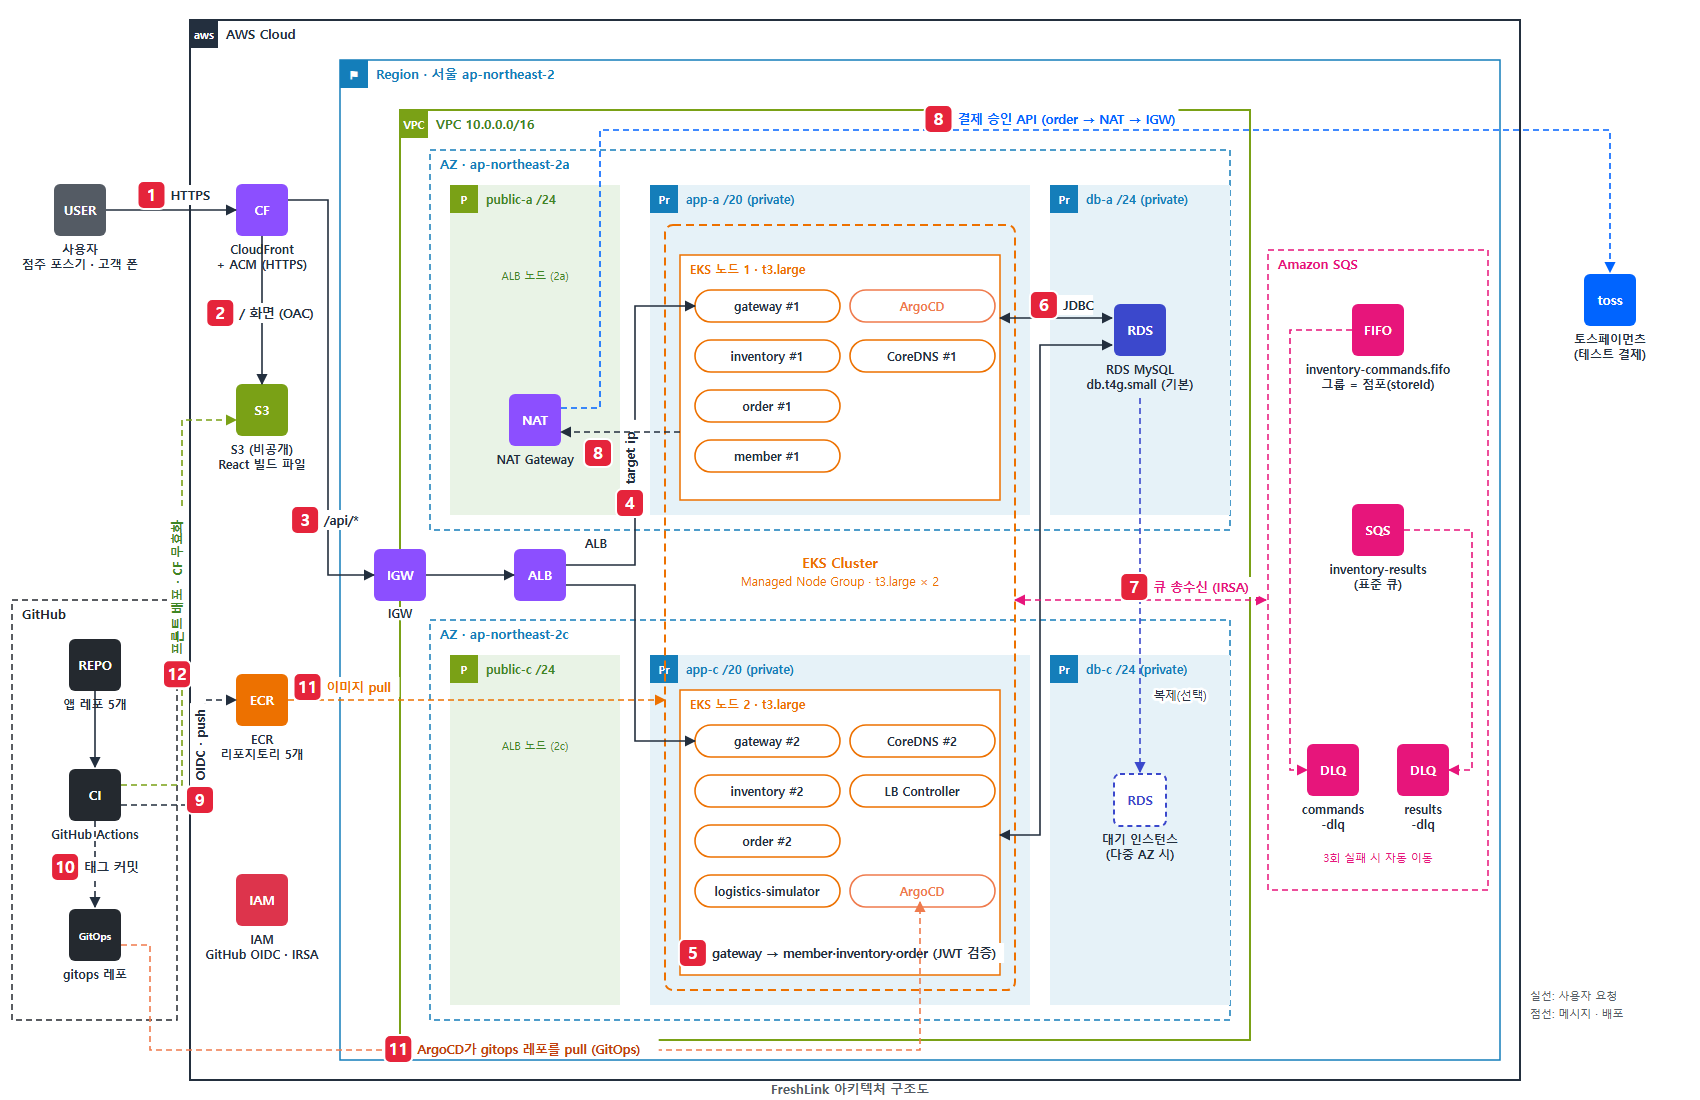
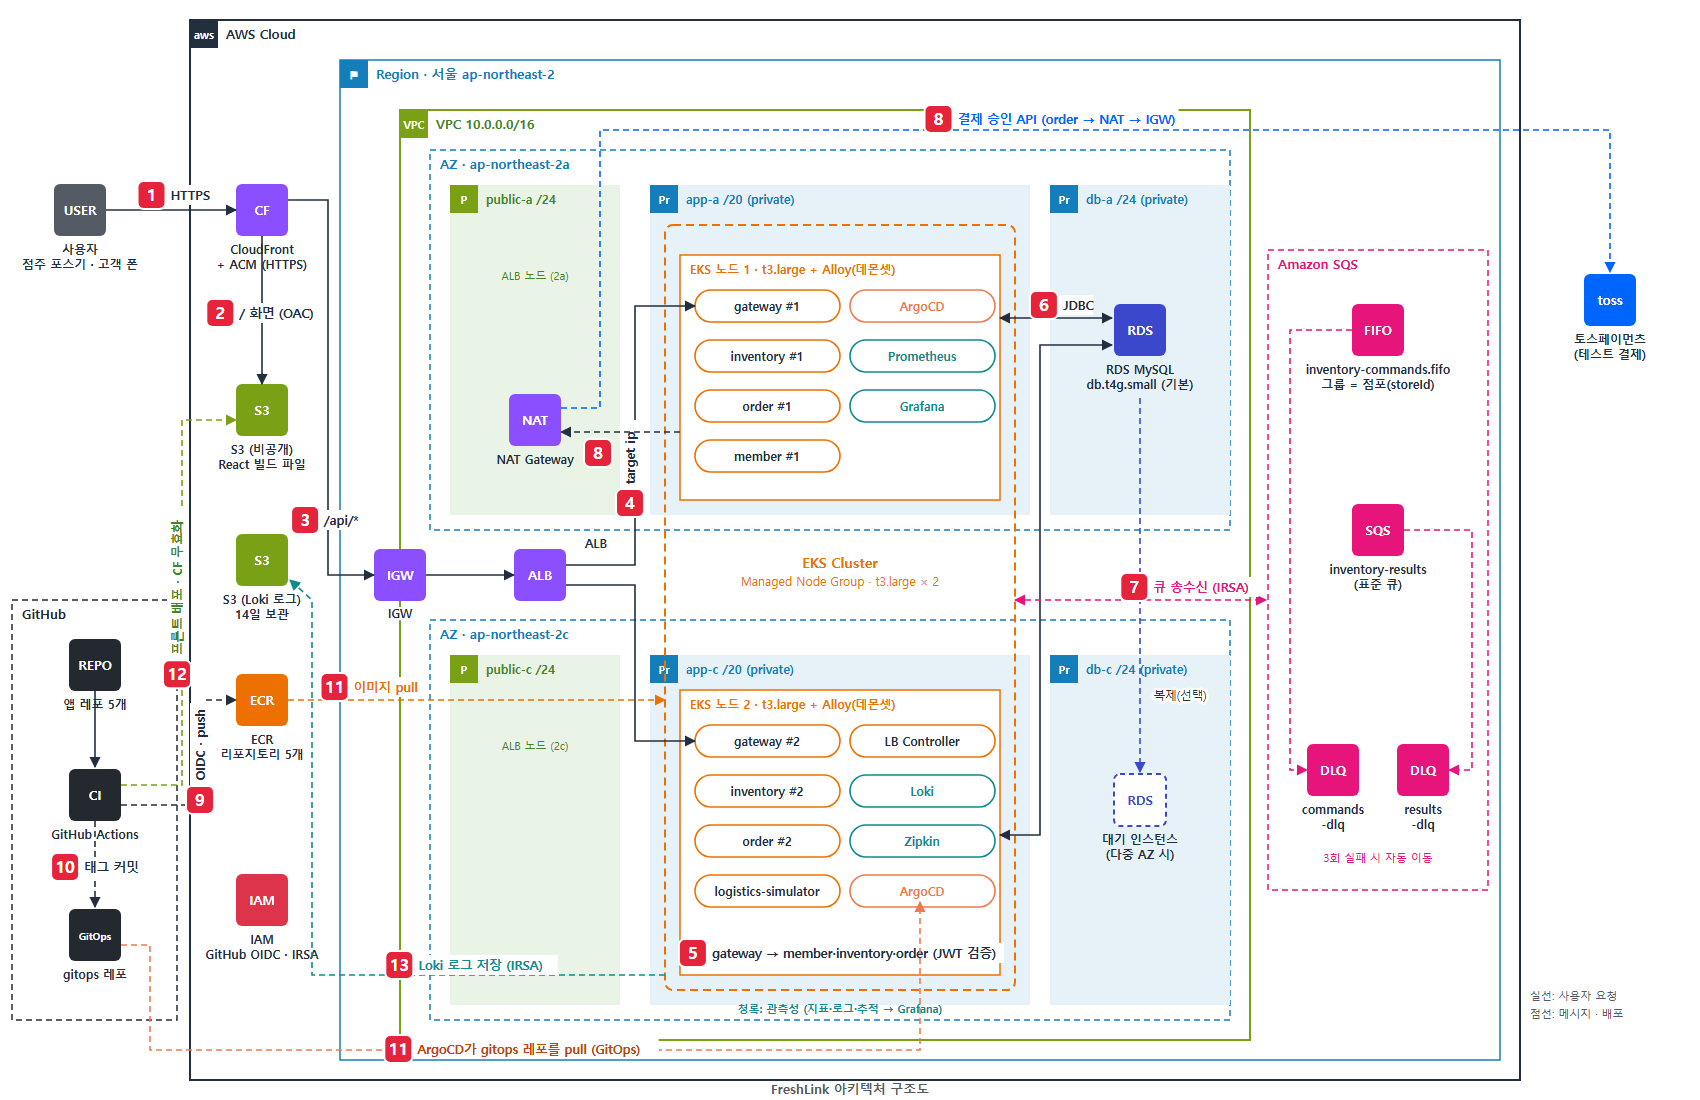
docs: 구조도 이미지, 관측성(Loki S3·IRSA 할 일), 기술스택 문서 추가

diff --git a/docs/기술스택과 선택이유.md b/docs/기술스택과 선택이유.md
@@ -1,0 +1,188 @@
+# FreshLink 기술 스택과 선택 이유
+
+작성일: 2026-10-12 · 작성: 김진아 · 팀: 김진아, 이태우, 김경우 · GitHub Organization: `sesac-freshlink`
+
+이 문서는 FreshLink MVP에서 쓰는 기술과 **왜 그것을 골랐는지**를 정리한 것이다. 기획안(`fresh-link-기획안 및 설계도.txt`)과 깃 계획(`git-계획.md`)에 흩어져 있는 결정 이유를 한곳에 모았다. 특히 **CI를 Jenkins가 아니라 GitHub Actions로 정한 이유**를 4장에, **관측성 스택(Prometheus·Grafana·Loki·Zipkin)**을 3-5에 자세히 적었다.
+
+---
+
+## 1. 한눈에 보기
+
+| 영역 | 기술 | 한 줄 이유 |
+| --- | --- | --- |
+| 프론트엔드 | React (`/owner`, `/customer` 라우팅 분리) | 점주·고객 화면을 한 앱으로 만들어 빌드·배포를 한 번에 |
+| 프론트 배포 | S3(비공개) + CloudFront(OAC) + ACM | 정적 파일은 서버 없이 S3+CloudFront가 AWS 정석. 화면과 API를 한 주소로 묶어 CORS가 필요 없다 |
+| 백엔드 | Spring Boot, Spring Data JPA, Spring Security(JWT), Spring Cloud Gateway, Spring Cloud AWS(SQS) | 팀원 모두 익숙한 스택. 게이트웨이·SQS 연동이 라이브러리로 해결된다 |
+| DB | Amazon RDS MySQL (인스턴스 1대, 서비스별 스키마 분리) | 서비스별 RDS 3대는 비용 3배. 스키마와 DB 사용자를 나눠 경계는 지킨다 |
+| 메시징 | Amazon SQS (FIFO 1개, 표준 1개, 각각 DLQ) | FIFO 메시지 그룹(=점포)으로 DB 락 없이 재고 순서 보장. 관리형이라 운영 부담 없음 |
+| 결제 | 토스페이먼츠 테스트 키 | 국내 PG, 테스트 결제 승인 API만 부르면 된다 |
+| 컨테이너 실행 | AWS EKS (t3.large × 2), AWS Load Balancer Controller(ALB Ingress) | MSA 5개 서비스를 한 클러스터에서 운영. 목표 직무에서 EKS 경험이 중요 |
+| 인프라 코드 | Terraform (persistent / cluster 두 묶음) | 주말마다 클러스터를 지웠다 다시 만들어 비용을 줄이고, IaC 재현성을 매주 검증 |
+| **CI** | **GitHub Actions** | **4장 참고** |
+| CD | ArgoCD (GitOps, `gitops` 레포) | Git이 '클러스터에 떠 있어야 할 상태'. 사람이 클러스터에 직접 배포하지 않는다 |
+| 로컬 개발 | Docker Compose (MySQL + LocalStack) | AWS 없이 각자 PC에서 SQS까지 흉내 내며 개발 |
+| 관측성 (지표) | Prometheus + Spring Boot Actuator·Micrometer | 쿠버네티스 지표 수집의 사실상 표준. Spring은 의존성 하나로 지표를 내보낸다 |
+| 관측성 (화면) | Grafana | 지표·로그·추적을 한 화면에서 보고, 로그의 traceId에서 추적으로 바로 넘어간다 |
+| 관측성 (로그) | Loki + Grafana Alloy(수집) | 로그 본문을 색인하지 않아 Elasticsearch보다 훨씬 가볍고, 저장소를 S3로 둬서 주말 클러스터 삭제 뒤에도 로그가 남는다 |
+| 관측성 (추적) | Zipkin + Micrometer Tracing | 주문 한 건이 Gateway → order → SQS → inventory를 지나가는 흐름을 본다. 파드 1개, 설정이 가장 단순하다 |
+| 비용 관리 | AWS Budgets, GitHub Actions 예약 작업으로 인프라 켜기·끄기 | 5주 예상 비용 약 400 USD → 약 150 USD (기획안 6장 D안, 관측성 포함 약 155 USD) |
+
+---
+
+## 2. 배포 흐름 요약
+
+```mermaid
+flowchart LR
+    DEV["작업 브랜치"] -- "PR" --> D["dev"]
+    D -- "PR" --> M["main"]
+    M -- "GitHub Actions" --> B["이미지 빌드·테스트"]
+    B -- "OIDC로 IAM Role" --> ECR[("ECR")]
+    B -- "이미지 태그 커밋" --> G["gitops 레포"]
+    G -- "ArgoCD가 끌어감(pull)" --> K["EKS"]
+```
+
+**역할이 깔끔하게 나뉜다.**
+
+- **CI (GitHub Actions):** 코드를 빌드·테스트하고, 이미지를 ECR에 올리고, `gitops` 레포의 이미지 태그를 바꾸는 커밋을 만든다. 여기서 끝난다.
+- **CD (ArgoCD):** 클러스터 안에서 `gitops` 레포를 지켜보다가 바뀐 상태를 클러스터에 맞춘다.
+
+즉 **CI는 클러스터에 손대지 않는다.** 이 점이 Jenkins 대신 GitHub Actions를 고른 가장 큰 이유다.
+
+---
+
+## 3. 주요 기술별 선택 이유
+
+### 3-1. SQS FIFO로 재고 처리 (DB 락 대신)
+
+재고를 바꾸는 일(입고·예약·확정·해제·폐기)은 전부 `inventory-commands` FIFO 큐를 거친다. 메시지 그룹을 점포로 두면 같은 점포의 쪽지는 한 번에 하나씩 처리되므로, 동시에 100명이 주문해도 재고가 음수가 되지 않는다. Kafka도 같은 일을 할 수 있지만 브로커를 직접 운영해야 하고(MSK는 비용이 크다), MVP 규모에는 관리형 SQS로 충분하다.
+
+### 3-2. EKS (ECS가 아니라)
+
+ECS가 더 간단하고 싸지만, 목표 직무(AWS 클라우드 인프라)의 채용 공고에서 쿠버네티스·EKS 경험을 요구하는 경우가 많다. Helm, ArgoCD, IRSA, ALB Ingress처럼 쿠버네티스 생태계를 함께 다뤄 볼 수 있다는 점도 크다.
+
+### 3-3. Terraform 두 묶음 + 주말 클러스터 삭제
+
+`persistent`(VPC, RDS, ECR, S3·CloudFront, SQS, IAM, Budgets)와 `cluster`(EKS, 노드 그룹, NAT, Helm 설치물)로 나눈다. 금요일 저녁에 `cluster`만 지우고 월요일 아침에 다시 만든다. 비용이 줄고, "코드만으로 인프라를 언제든 똑같이 다시 만들 수 있다"를 매주 검증하게 된다.
+
+### 3-4. ArgoCD (GitOps)
+
+배포 상태가 Git에 남으므로 "지금 클러스터에 무엇이 떠 있나"를 `gitops` 레포만 보면 안다. 롤백은 커밋 되돌리기다. 주말에 클러스터를 지웠다 다시 만들어도 ArgoCD만 다시 설치하면 `gitops` 레포 상태대로 앱이 자동으로 다시 올라온다.
+
+### 3-5. 관측성: Prometheus + Grafana + Loki + Zipkin
+
+**결정 (2026-10-12):** 관측성을 MVP에 넣는다(기획안 I-03, 담당 김진아). 지표는 Prometheus, 로그는 Loki, 추적은 Zipkin, 보는 화면은 Grafana 하나로 통일한다.
+
+MSA는 요청 하나가 서비스 여러 개와 큐를 거친다. "결제는 됐는데 재고가 안 줄었다" 같은 문제가 생기면 서비스 3개의 로그를 따로 뒤져야 한다. 관측성 스택이 있으면 traceId 하나로 그 주문이 어디서 멈췄는지 바로 찾는다. 목표 직무(AWS 클라우드 인프라)에서 "운영"을 보여 줄 수 있는 가장 직접적인 근거이기도 하다.
+
+#### 도구별 선택 이유
+
+| 도구 | 하는 일 | 고른 이유 | 대안과 버린 이유 |
+| --- | --- | --- | --- |
+| **Prometheus** | 지표(요청 수, 응답 시간, 에러율, JVM 메모리, 노드·파드 자원) 수집·저장 | 쿠버네티스 지표 수집의 사실상 표준. `kube-prometheus-stack` 차트 하나로 노드·파드 지표와 기본 대시보드까지 따라온다. Spring은 Micrometer가 Prometheus 형식을 그대로 내보낸다 | CloudWatch Container Insights: 설치는 쉽지만 지표 수·로그 양만큼 요금이 붙고, 대시보드와 쿼리가 AWS 콘솔에 묶인다. Amazon Managed Prometheus: 관리형이지만 수집 요금이 붙고 MVP 규모에는 과하다 |
+| **Grafana** | 지표·로그·추적을 한 화면에서 보기 | 데이터 소스 셋(Prometheus, Loki, Zipkin)을 모두 붙일 수 있고, 로그 줄의 traceId를 누르면 Zipkin 추적 화면으로 넘어간다(derived fields). 대시보드를 JSON으로 `gitops` 레포에 두면 클러스터를 지웠다 다시 만들어도 그대로 돌아온다 | Kibana: Elasticsearch가 있어야 쓴다 |
+| **Loki** | 로그 저장·검색 | 로그 본문은 색인하지 않고 라벨(namespace, app, level)만 색인해서 메모리·디스크를 적게 쓴다. 파드 1개(단일 바이너리 모드), 메모리 512 MiB로 충분하다. 저장소를 S3로 두면 주말 클러스터 삭제와 상관없이 로그가 남는다 | ELK(Elasticsearch): 전문 검색은 강하지만 Elasticsearch 하나에 메모리 2~4 GiB가 필요해 노드 2대에 들어가지 않는다. CloudWatch Logs: 수집량 요금이 붙고 Grafana와 따로 논다 |
+| **Grafana Alloy** | 각 노드의 파드 로그를 읽어 Loki로 보내기 | Grafana가 Promtail 다음으로 내놓은 수집기. **Promtail은 지원이 끝나 가는 중이라(Grafana가 Alloy로 이전을 안내) 새로 시작하는 프로젝트는 Alloy로 간다.** 데몬셋으로 노드마다 1개 | Promtail: 위 이유. Fluent Bit: 쓸 만하지만 Loki와 같은 회사 도구인 Alloy가 설정 예제가 많다 |
+| **Zipkin** | 분산 추적(요청 하나가 서비스 사이를 지나간 경로와 각 구간 시간) | 파드 1개, 메모리 저장으로 설정할 것이 거의 없다. Micrometer Tracing의 Brave 브리지가 Zipkin 형식으로 바로 보내고, Grafana에 Zipkin 데이터 소스가 기본 내장이다 | Grafana Tempo: S3에 저장해 오래 남길 수 있고 Grafana와 더 잘 붙지만 구성 요소가 많다. Jaeger: 기능은 비슷하지만 Spring 쪽 기본 연동은 Zipkin(Brave)이 더 단순하다. 추적을 오래 보관해야 하면 Tempo로 바꾸는 것을 검토한다 |
+
+#### 서비스가 붙는 방법 (Spring Boot)
+
+공통 설정은 김진아가 `common` 레포에 모아서, 각 서비스는 의존성 하나만 추가하면 되게 한다.
+
+| 무엇 | 의존성·설정 | 결과 |
+| --- | --- | --- |
+| 지표 | `spring-boot-starter-actuator`, `micrometer-registry-prometheus`. `management.endpoints.web.exposure.include=health,prometheus`. 관리 포트는 `management.server.port=8081`로 따로 둔다 | `/actuator/prometheus`에 지표가 나온다. 공통 Helm 차트(`spring-service`)에 ServiceMonitor를 넣어 5개 서비스가 자동으로 수집된다. `/actuator/health`는 readiness·liveness probe로도 쓴다 |
+| 추적 | `micrometer-tracing-bridge-brave`, `zipkin-reporter-brave`. `management.tracing.sampling.probability=1.0`(MVP는 트래픽이 적어 전부 기록), Zipkin 주소 `http://zipkin.observability:9411/api/v2/spans` (Spring Boot 3.x 기준 속성 이름은 `management.zipkin.tracing.endpoint`) | HTTP 요청, RestClient/WebClient 호출(토스 결제 API 포함), JPA 쿼리 구간이 자동으로 기록된다. Gateway(Spring Cloud Gateway)도 같은 방식으로 붙는다 |
+| 추적이 SQS를 건너가게 | 메시지 속성에 `traceparent`를 실어 보내고 받는 쪽에서 이어받는다. **Outbox 발행기는 별도 스레드에서 보내므로, outbox 표에 `trace_parent` 칸을 두고 저장 시점의 추적 정보를 넣어 둔다** | 주문 → 예약 쪽지 → inventory 처리까지 하나의 추적으로 이어진다. 이 부분이 FIFO·Outbox 구조를 면접에서 설명할 때 가장 좋은 그림이 된다 |
+| 로그 | 콘솔(stdout)에 JSON 한 줄로 찍는다. Spring Boot 3.4 이상은 `logging.structured.format.console=ecs`로 바로 된다. Micrometer Tracing이 `traceId`, `spanId`를 로그에 자동으로 넣는다 | Alloy가 노드의 파드 로그 파일을 읽어 Loki로 보낸다. 서비스 코드는 Loki를 전혀 모른다. traceId는 라벨로 만들지 않는다(라벨 종류가 폭발하면 Loki가 느려진다) |
+
+```mermaid
+flowchart LR
+    subgraph EKS["EKS (namespace: observability)"]
+        APP["Spring 파드 5종<br/>Actuator · Micrometer"]
+        P["Prometheus"]
+        A["Alloy (노드마다)"]
+        L["Loki"]
+        Z["Zipkin"]
+        G["Grafana"]
+    end
+    S3[("S3 로그 버킷")]
+    APP -- "/actuator/prometheus 수집" --> P
+    APP -- "stdout JSON 로그" --> A --> L --> S3
+    APP -- "추적 전송" --> Z
+    P --> G
+    L --> G
+    Z --> G
+```
+
+#### 설치와 운영
+
+- **설치는 ArgoCD가 한다.** `gitops/platform/observability`에 kube-prometheus-stack, loki, alloy, zipkin Application을 둔다. Terraform은 ArgoCD와 LB Controller까지만 올린다. 보관 기간·리소스·대시보드를 바꿀 때 `gitops` PR 하나로 끝나고, 월요일에 클러스터를 다시 만들면 앱과 함께 자동으로 다시 올라온다.
+- **보관:** Loki 로그는 S3에 14일(유지 묶음이라 주말에도 남는다). Prometheus 지표는 EBS gp3 10 GiB에 3일(주말 삭제 때 사라진다). Zipkin 추적은 메모리에만 있어 파드가 재시작하면 사라진다. MVP에서는 "오늘 무슨 일이 있었나"를 보는 용도라 충분하다.
+- **접속:** Grafana는 외부에 열지 않고 `kubectl port-forward`로 연다. 시연 때 외부에서 보여야 하면 그때 ALB 경로와 로그인을 붙인다.
+- **알림:** Alertmanager는 꺼서 자원을 아낀다. 필요해지면 Grafana 알림으로 팀원 메일에 보낸다.
+- (선택) Grafana에 CloudWatch 데이터 소스를 붙이면 SQS 큐 깊이와 DLQ 메시지 수도 같은 화면에서 본다. IRSA로 읽기 권한만 준다.
+
+#### 노드 용량에 주는 영향
+
+관측성 스택은 파드 10개, **CPU 요청 약 0.85 vCPU, 메모리 요청 약 2.9 GiB**를 더한다(EBS CSI 드라이버 포함 시 시스템 쪽 +0.05 vCPU, +0.2 GiB). 노드 2대의 할당 가능량은 약 3.86 vCPU, 14.2 GiB다.
+
+- 메모리는 합계 약 9 GiB(64%)로 여유가 있다.
+- **먼저 차는 것은 CPU 요청이다.** 앱 CPU 요청을 처음 값 250m로 두면 합계가 약 3.8 vCPU로 거의 꽉 차서 롤링 배포 때 새 파드가 뜨지 못한다. **앱 파드 CPU 요청을 150m로 낮춰 약 3.05 vCPU(79%)**로 맞춘다. CPU 상한은 두지 않으므로 Spring 기동 때는 남는 CPU를 빌려 쓴다.
+- **결론: t3.large × 2를 그대로 쓰고 3번째 노드는 늘리지 않는다.** 노드 그룹 최대값 3은 그대로 두고, 부하 테스트·장애 훈련 때나 150m로 응답이 느릴 때만 3대로 올린다(개발 시간에만 켜면 5주에 약 +20 USD).
+- 관측성 자체에 드는 추가 비용은 볼륨·S3·이미지 다운로드(NAT)를 합쳐 5주에 약 5 USD다. D안 기준 약 150 → 약 155 USD.
+- 자세한 파드별 요청량은 기획안 3-1, 3-2를 본다.
+
+---
+
+## 4. CI: Jenkins 대신 GitHub Actions를 고른 이유
+
+**결정 (2026-10-12):** CI는 GitHub Actions로 한다. 배포는 그대로 ArgoCD GitOps다.
+
+### 4-1. 이유
+
+**① GitOps 구조에서는 CI가 클러스터에 접근할 필요가 없다.**
+Jenkins의 대표적인 장점은 VPC 안(또는 클러스터 안)에 두면 프라이빗 리소스(EKS API, RDS 등)에 바로 접근할 수 있다는 것이다. 하지만 우리 CI가 하는 일은 이미지 빌드 → ECR 푸시 → `gitops` 레포에 태그 커밋뿐이다. 클러스터에 배포하는 것은 클러스터 안의 ArgoCD가 끌어가는(pull) 방식이라, CI는 VPC 안에 있을 이유가 없다. Jenkins의 'VPC 내부 접근' 장점이 우리 구조에서는 사라진다.
+
+**② 운영하고 돈 낼 CI 서버가 없다. 그리고 주말 삭제와 충돌하지 않는다.**
+Jenkins는 서버(EC2 또는 클러스터 안 파드)를 직접 띄우고 플러그인·보안 업데이트·디스크·백업을 관리해야 한다. EC2로 띄우면 24시간 요금이 나가거나, 그것까지 켜고 끄는 일정을 따로 짜야 한다. 클러스터 안에 띄우면 **금요일마다 클러스터를 지우는 D안 때문에 Jenkins도 같이 사라진다**(작업 이력, 설정, 자격 증명까지). GitHub Actions는 GitHub이 실행기를 제공하므로 이런 문제가 없다.
+
+**③ 이미 기획에서 GitHub Actions를 쓰고 있다.**
+- 인프라 켜기·끄기 예약 작업과 수동 버튼(workflow_dispatch) — 기획안 6-5
+- 프론트엔드 빌드 → S3 업로드 → CloudFront 무효화 — 기획안 3-5
+
+여기에 Jenkins를 더하면 CI 도구가 둘이 된다. 하나로 통일하면 시크릿, 권한, 로그를 보는 곳도 하나다. 특히 인프라 켜기·끄기는 클러스터가 없을 때도 돌아야 하므로, 어차피 클러스터 바깥의 실행기(GitHub Actions)가 필요하다.
+
+**④ 레포 11개를 재사용 워크플로와 OIDC로 깔끔하게 묶을 수 있다.**
+- 레포를 나눠 두었기 때문에(`gateway`, `member-service`, `inventory-service`, `order-service`, `logistics-simulator`, `frontend` 등) 빌드 파일이 여기저기 복사되기 쉽다. `.github` 레포에 재사용 워크플로(`spring-build.yml`, `frontend-deploy.yml`)를 두고 각 레포는 몇 줄로 불러 쓴다. 하나를 고치면 전체에 반영된다.
+- AWS 인증은 **GitHub OIDC로 IAM Role을 맡는다.** AWS 액세스 키를 어디에도 저장하지 않는다. Role의 신뢰 정책에서 `sesac-freshlink` Organization의 특정 레포·브랜치만 허용할 수 있다. Jenkins에서는 보통 액세스 키를 자격 증명으로 저장하거나, Jenkins 서버를 EC2 인스턴스 프로파일로 묶어야 한다.
+- PR 화면에 빌드 결과가 바로 붙어 리뷰가 편하다. 별도 Jenkins 웹훅·계정 연동이 필요 없다.
+
+**⑤ 목표 직무에서 더 점수가 되는 곳에 시간을 쓴다.**
+목표 직무(예: 현대오토에버 등의 AWS 클라우드 인프라)는 CI 도구 이름보다 **AWS 설계, Terraform, 운영, 비용 최적화** 경험을 본다. Jenkins 서버를 세우고 관리하는 데 들어갈 시간을 EKS·Terraform·모니터링·비용 절감에 쓰는 편이 포트폴리오에 더 남는다.
+
+### 4-2. Jenkins를 골랐다면 얻었을 것 (포기한 것)
+
+정직하게 적어 둔다. 면접에서 "왜 Jenkins는 안 썼나요?"라는 질문에 장단점을 둘 다 말할 수 있어야 한다.
+
+| Jenkins의 장점 | 우리 상황에서 |
+| --- | --- |
+| VPC 안에서 프라이빗 리소스에 바로 접근 | GitOps라 CI가 클러스터·RDS에 접근할 일이 없다 |
+| CI 서버를 직접 운영해 본 경험 (설치, 플러그인, 에이전트, 백업) | 운영 경험은 EKS·Terraform·ArgoCD 쪽에서 충분히 쌓는다 |
+| JCasC(Configuration as Code)로 Jenkins 설정까지 코드화 | GitHub Actions는 워크플로 자체가 YAML 코드라 같은 효과 |
+| 국내 기업(특히 온프레미스·금융권)에서 여전히 많이 쓴다 | 면접 대비로 개념(파이프라인, 에이전트, JCasC)은 따로 공부해 둔다 |
+| 빌드 시간 제한·과금 없이 마음껏 돌릴 수 있다 | 5주 MVP 빌드 횟수면 GitHub Actions 무료 제공량 안에서 해결된다 (레포를 private으로 두면 월 사용 시간 제한이 있으니 확인) |
+
+### 4-3. 다시 검토할 때
+
+아래 상황이 생기면 결정을 다시 본다.
+
+- **CI가 VPC 안의 프라이빗 리소스에 접근해야 할 때.** 예: 실제 RDS에 붙는 통합 테스트, 프라이빗 EKS API에 직접 명령, 사내망 전용 저장소.
+  - 이때도 Jenkins로 바꾸기보다 **GitHub Actions self-hosted runner를 EKS 안에 띄우는 것**(Actions Runner Controller)을 먼저 검토한다. 워크플로는 그대로 두고 실행 위치만 VPC 안으로 옮길 수 있다. 단, 주말 클러스터 삭제 때 러너도 같이 사라지므로, 그 작업은 평일에만 돌게 한다.
+- **빌드가 무료 제공량을 넘거나 GitHub 호스팅 실행기로는 너무 느릴 때.** 같은 self-hosted runner로 해결할 수 있다.
+
+---
+
+## 5. 관련 문서
+
+- `fresh-link-기획안 및 설계도.txt` — 3-4 기술 스택, 3-5 프론트 배포, 6-4 I-03 관측성, (인프라 산정) 3장 노드 산정, 6장 비용과 켜고 끄는 일정, 7장 Outbox 추적·Loki 설정, 8장 Helm 설치 목록
+- `git-계획.md` — 레포 구성, 7장 CI/CD 흐름, 8장 시크릿과 OIDC

diff --git a/docs/architecture/README.md b/docs/architecture/README.md
@@ -40,7 +40,15 @@ order-service가 토스페이먼츠 결제 승인 API를 호출한다. 프라이
 | ⑪ | ArgoCD ← `gitops`, 노드 ← ECR | 클러스터 안의 ArgoCD가 `gitops`를 끌어와(pull) 상태를 맞추고, 노드가 ECR에서 이미지를 받는다 |
 | ⑫ | GitHub Actions → S3 · CloudFront | 프론트는 `npm run build` → S3 업로드 → CloudFront 캐시 무효화 |
 
-## 5. 네트워크 배치
+## 5. 관측성 (⑬, 청록색 파드)
+
+- **지표:** 서비스 5종이 Actuator·Micrometer로 `/actuator/prometheus`를 내보내고 Prometheus가 수집한다 (EBS gp3 10 GiB, 3일 보관).
+- **로그:** 노드마다 뜬 Grafana Alloy(데몬셋)가 파드 로그를 읽어 Loki로 보낸다. Loki는 로그를 **S3에 14일** 저장해서 주말 클러스터 삭제 뒤에도 남는다(⑬, IRSA로 버킷 권한).
+- **추적:** Micrometer Tracing이 Zipkin으로 보낸다. 주문 한 건이 gateway → order → SQS → inventory를 지나간 경로를 traceId 하나로 본다.
+- **화면:** Grafana 하나에서 지표·로그·추적을 함께 보고, 로그의 traceId를 누르면 Zipkin 추적으로 넘어간다. 외부에 열지 않고 `kubectl port-forward`로 접속한다.
+- **설치:** `gitops/platform/observability`의 ArgoCD Application으로 올린다(namespace `observability`).
+
+## 6. 네트워크 배치
 
 - 서울 리전, AZ 2개(2a·2c). AZ마다 **public / app / db** 3계층 서브넷.
 - public: ALB(두 AZ), NAT Gateway(2a에 1개). app: EKS 노드 t3.large 1대씩. db: RDS 기본(2a), 2c는 다중 AZ용 대기 자리.
